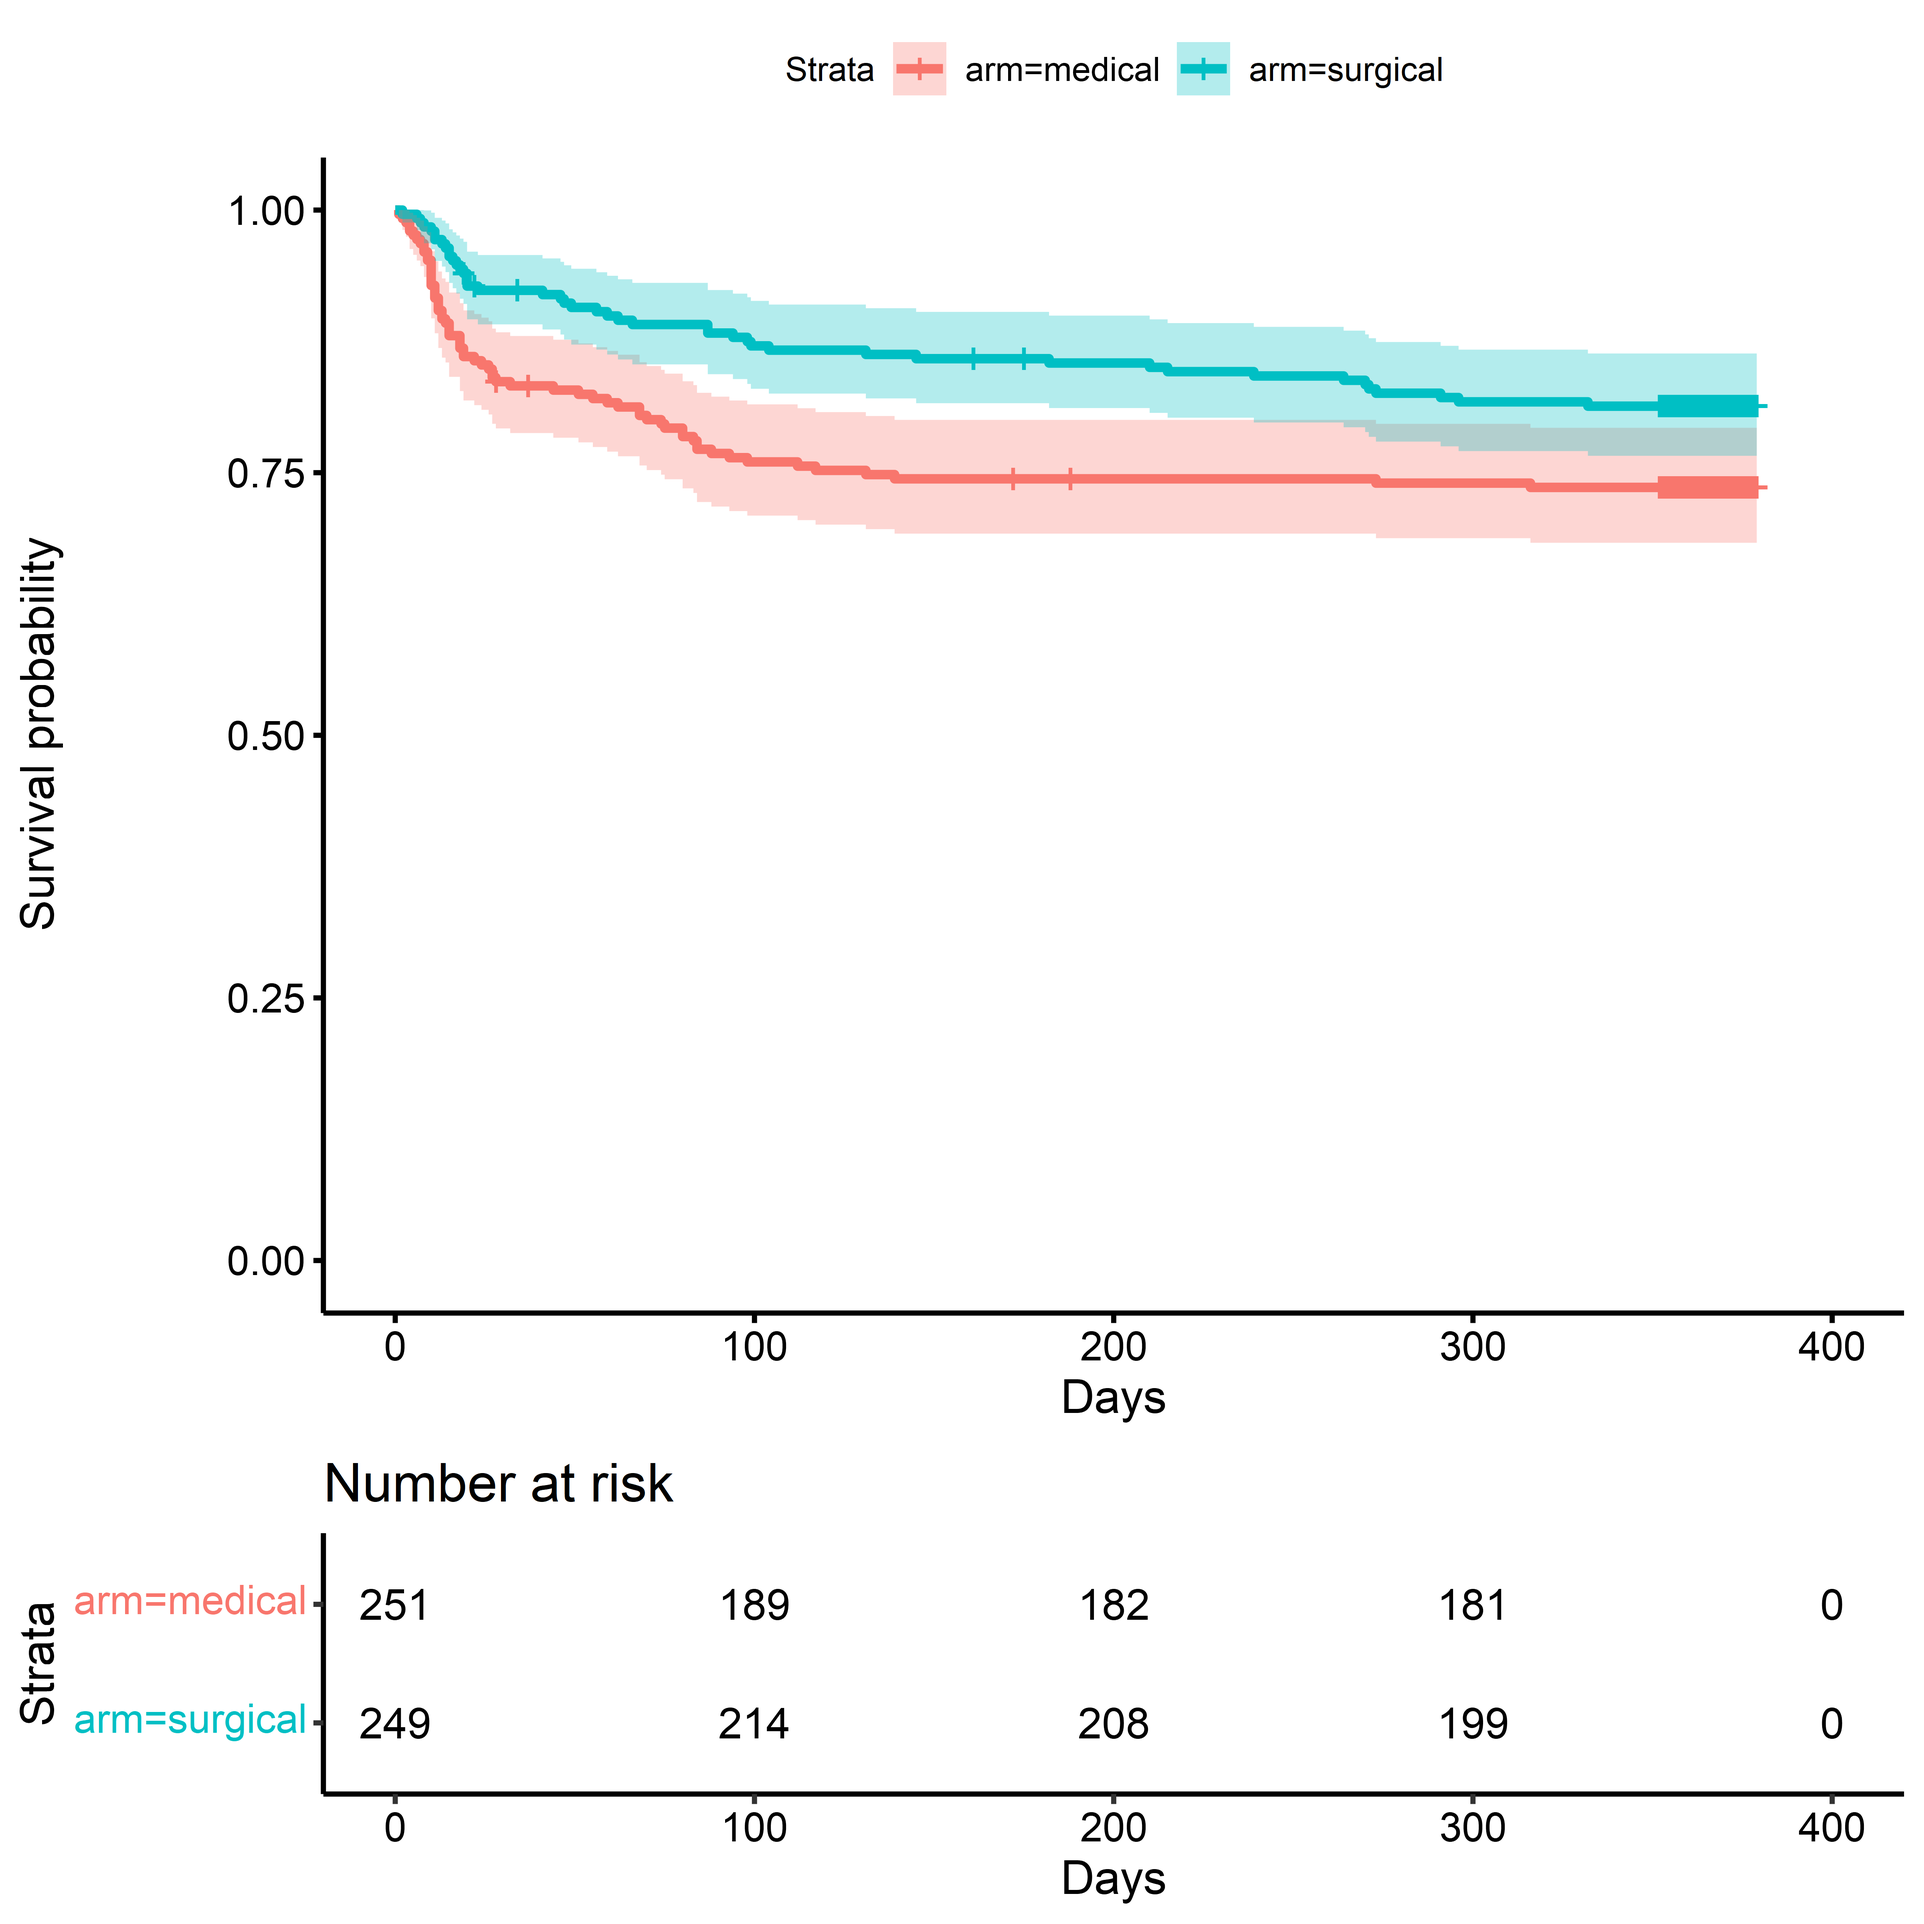
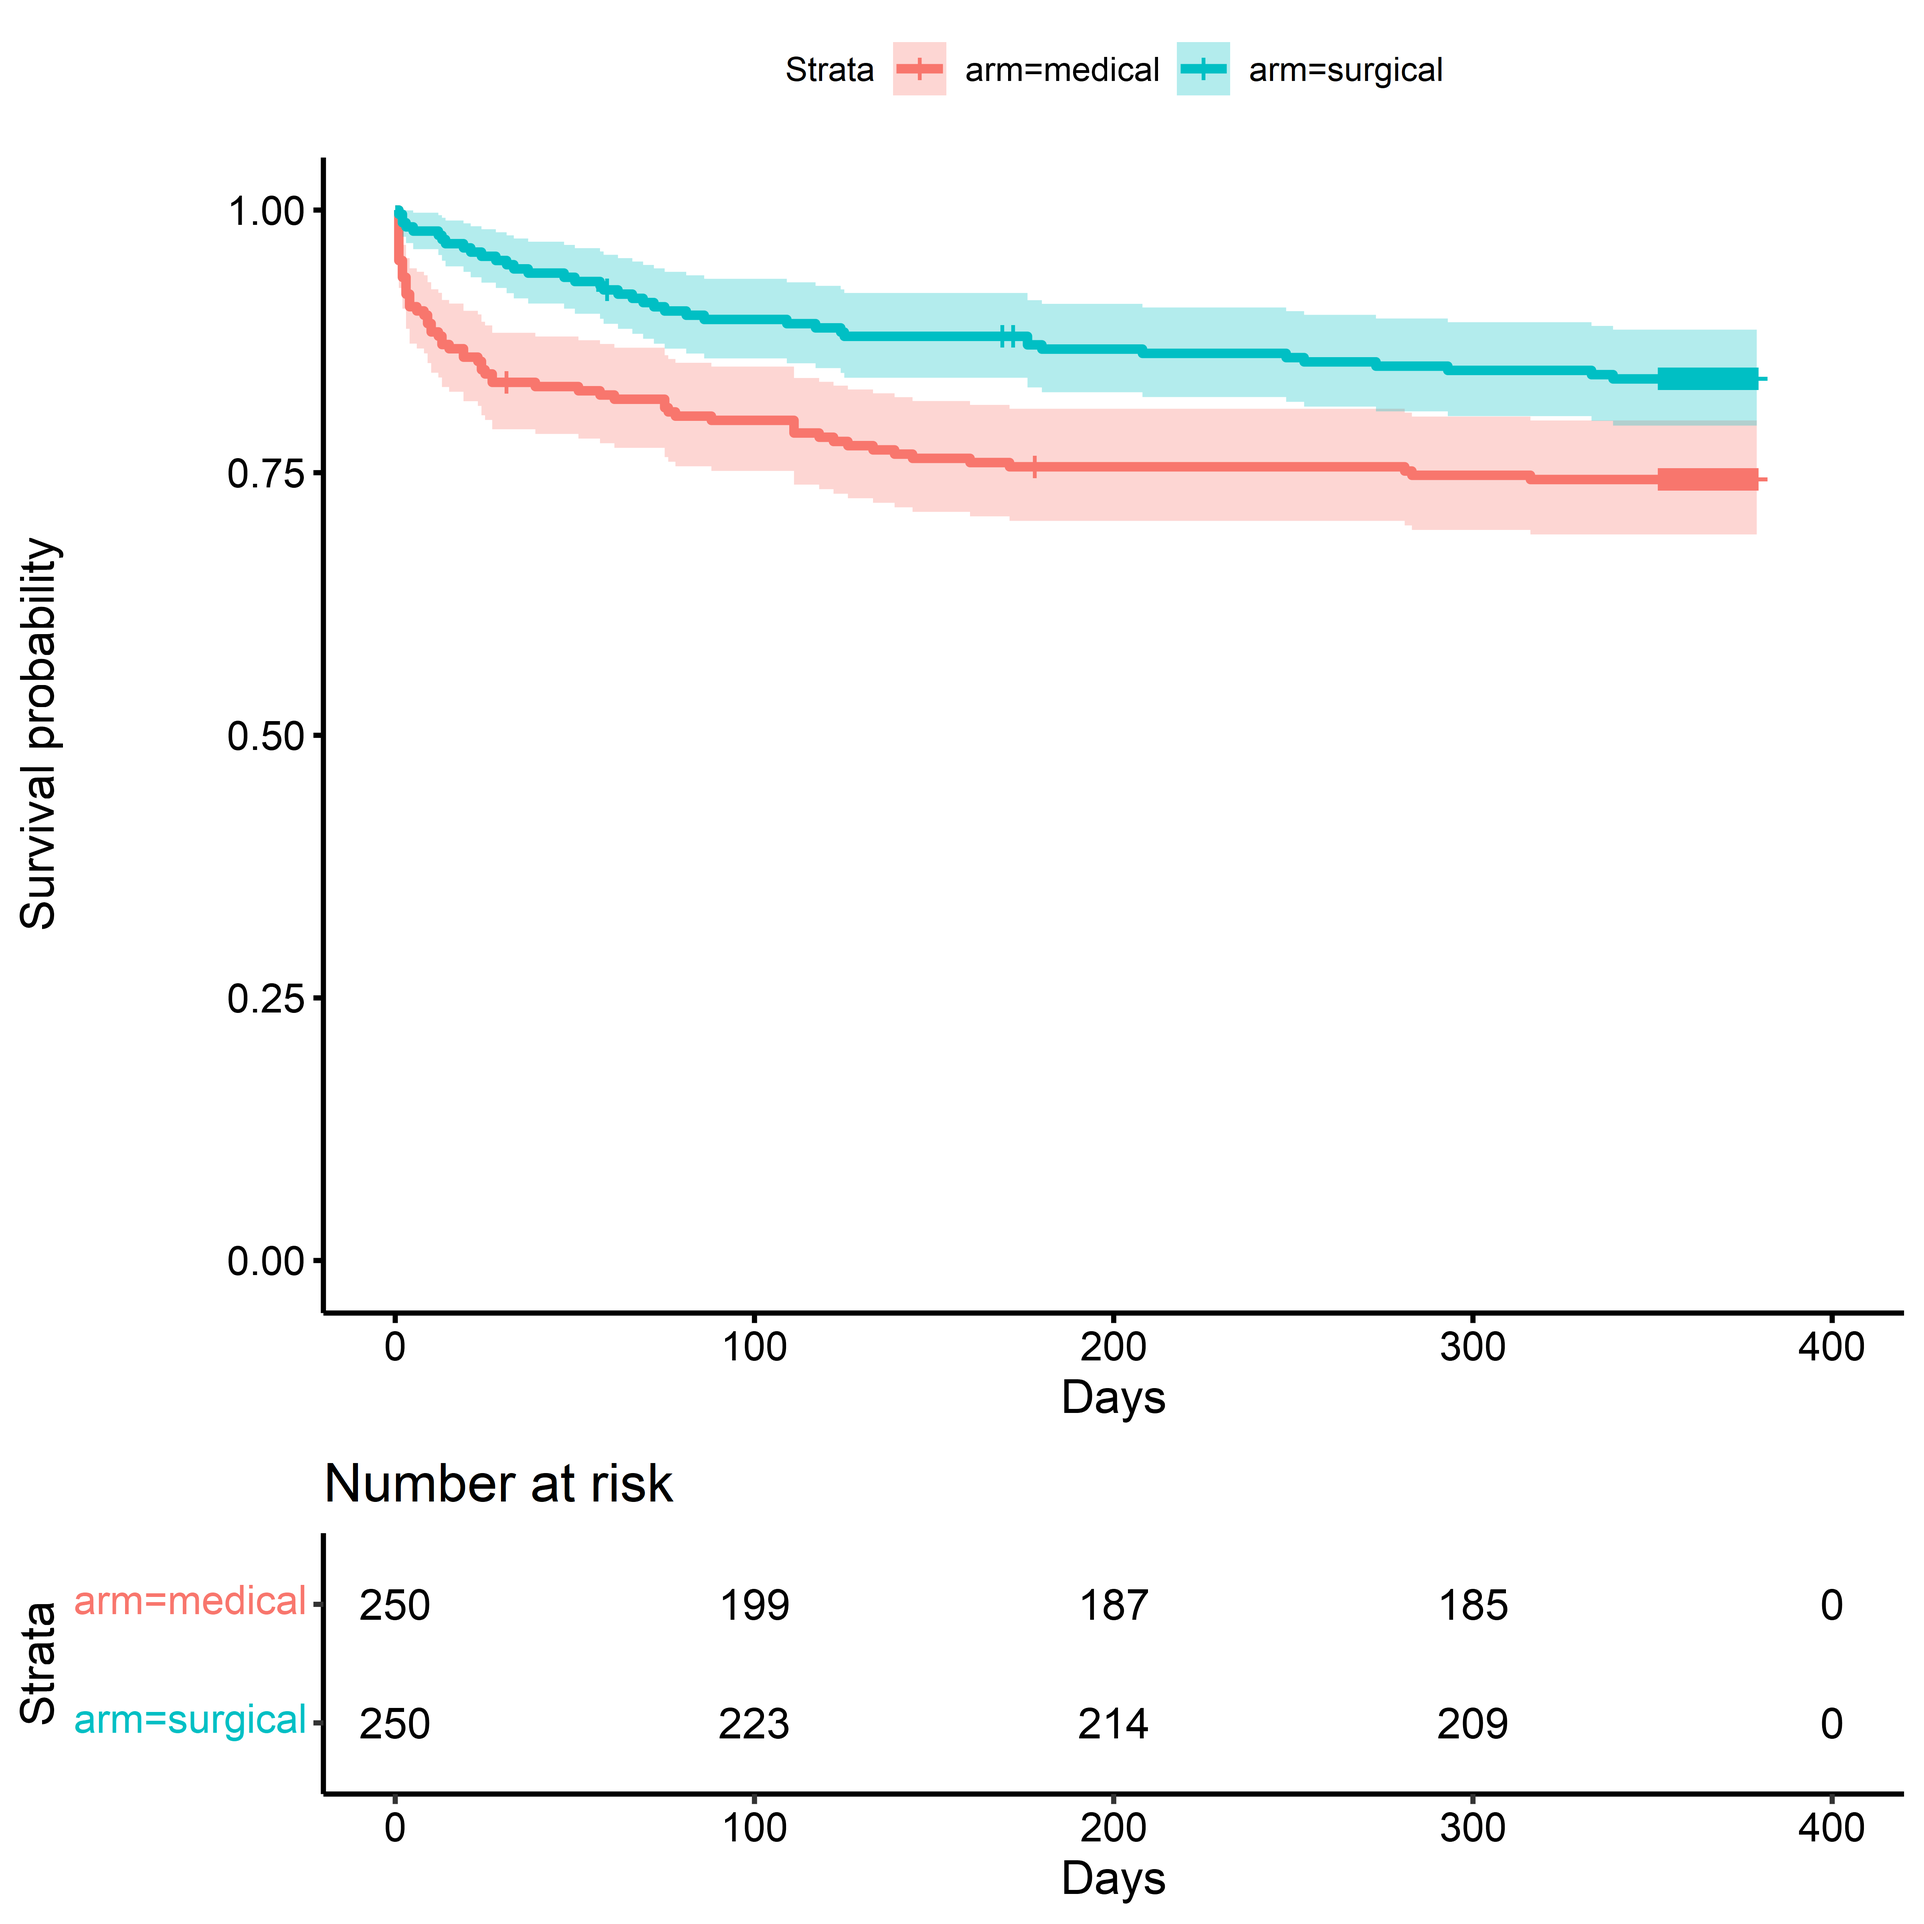
Update

diff --git a/time_to_event_mistie_simulated.md b/time_to_event_mistie_simulated.md
@@ -1,4 +1,4 @@
-Covariate Adjustment in Randomized Trials
+MISTIE III: Time-to-Event Outcome
 ================
 Josh Betz (<jbetz@jhu.edu>), Kelly Van Lancker (<kvanlan3@jhu.edu>), and
 Michael Rosenblum (<mrosen@jhu.edu>)
@@ -449,10 +449,10 @@ survival::survdiff(
     ##     arm, data = sim_miii)
     ## 
     ##                N Observed Expected (O-E)^2/E (O-E)^2/V
-    ## arm=medical  251       66     53.9      2.70      5.23
-    ## arm=surgical 249       46     58.1      2.51      5.23
+    ## arm=medical  250       64     49.6      4.19      8.06
+    ## arm=surgical 250       40     54.4      3.82      8.06
     ## 
-    ##  Chisq= 5.2  on 1 degrees of freedom, p= 0.02
+    ##  Chisq= 8.1  on 1 degrees of freedom, p= 0.005
 
 ### Cox Proportional Hazards Model
 
@@ -478,20 +478,20 @@ summary(unadjusted_cox)
     ## survival::coxph(formula = Surv(time = days_on_study, event = died_on_study) ~ 
     ##     arm, data = sim_miii, ties = "efron", robust = TRUE)
     ## 
-    ##   n= 500, number of events= 112 
+    ##   n= 500, number of events= 104 
     ## 
-    ##                coef exp(coef) se(coef) robust se      z Pr(>|z|)  
-    ## armsurgical -0.4363    0.6464   0.1921    0.1906 -2.289   0.0221 *
+    ##                coef exp(coef) se(coef) robust se      z Pr(>|z|)   
+    ## armsurgical -0.5670    0.5672   0.2016    0.1995 -2.841  0.00449 **
     ## ---
     ## Signif. codes:  0 '***' 0.001 '**' 0.01 '*' 0.05 '.' 0.1 ' ' 1
     ## 
     ##             exp(coef) exp(-coef) lower .95 upper .95
-    ## armsurgical    0.6464      1.547    0.4449    0.9393
+    ## armsurgical    0.5672      1.763    0.3836    0.8387
     ## 
-    ## Concordance= 0.559  (se = 0.023 )
-    ## Likelihood ratio test= 5.25  on 1 df,   p=0.02
-    ## Wald test            = 5.24  on 1 df,   p=0.02
-    ## Score (logrank) test = 5.24  on 1 df,   p=0.02,   Robust = 5.21  p=0.02
+    ## Concordance= 0.575  (se = 0.024 )
+    ## Likelihood ratio test= 8.16  on 1 df,   p=0.004
+    ## Wald test            = 8.07  on 1 df,   p=0.004
+    ## Score (logrank) test = 8.12  on 1 df,   p=0.004,   Robust = 8.03  p=0.005
     ## 
     ##   (Note: the likelihood ratio and score tests assume independence of
     ##      observations within a cluster, the Wald and robust score tests do not).
@@ -510,8 +510,8 @@ print(unadjusted_cox_ph_test)
 ```
 
     ##        chisq df      p
-    ## arm      7.1  1 0.0077
-    ## GLOBAL   7.1  1 0.0077
+    ## arm     9.85  1 0.0017
+    ## GLOBAL  9.85  1 0.0017
 
 ``` r
 # Plot 
@@ -542,25 +542,25 @@ with(
     ## 
     ## Restricted Mean Survival Time (RMST) by arm 
     ##                Est.    se lower .95 upper .95
-    ## RMST (arm=1) 82.970 1.332    80.359    85.581
-    ## RMST (arm=0) 75.895 1.819    72.329    79.461
+    ## RMST (arm=1) 84.510 1.160    82.237    86.783
+    ## RMST (arm=0) 75.744 1.932    71.957    79.531
     ## 
     ## 
     ## Restricted Mean Time Lost (RMTL) by arm 
     ##                Est.    se lower .95 upper .95
-    ## RMTL (arm=1)  7.030 1.332     4.419     9.641
-    ## RMTL (arm=0) 14.105 1.819    10.539    17.671
+    ## RMTL (arm=1)  5.490 1.160     3.217     7.763
+    ## RMTL (arm=0) 14.256 1.932    10.469    18.043
     ## 
     ## 
     ## Between-group contrast 
-    ##                       Est. lower .95 upper .95     p
-    ## RMST (arm=1)-(arm=0) 7.075     2.655    11.495 0.002
-    ## RMST (arm=1)/(arm=0) 1.093     1.033     1.157 0.002
-    ## RMTL (arm=1)/(arm=0) 0.498     0.318     0.781 0.002
+    ##                       Est. lower .95 upper .95 p
+    ## RMST (arm=1)-(arm=0) 8.766     4.350    13.182 0
+    ## RMST (arm=1)/(arm=0) 1.116     1.054     1.181 0
+    ## RMTL (arm=1)/(arm=0) 0.385     0.235     0.630 0
 
 The average survival time in the first 90 days was 83 days in the
 surgical arm and 76 days in the medical arm: the difference in average
-survival time (RMST) between arms in the first 90 months was 7.1 months.
+survival time (RMST) between arms in the first 90 months was 7.1 days.
 The ratio of RMST between treatment and control was 1.09 (9% increase in
 RMST).
 
@@ -610,10 +610,6 @@ adjrct::survprob(
 
     ## Warning: step size truncated due to increasing deviance
 
-    ## Warning: step size truncated due to increasing deviance
-
-    ## Warning: step size truncated due to increasing deviance
-
 The unadjusted survival probability in the first 90 days was 0.88 in the
 in the surgical arm and 0.77 in the medical arm. The difference in the
 probability of surviving the first 90 days between surgical and medical
@@ -651,28 +647,28 @@ summary(ps_model)
     ## 
     ## Parametric coefficients:
     ##                                Estimate Std. Error z value Pr(>|z|)  
-    ## (Intercept)                    -0.17775    0.24161  -0.736   0.4619  
-    ## male1. Male                    -0.06097    0.20454  -0.298   0.7656  
-    ## hx_cvd1. Yes                    0.42166    0.30489   1.383   0.1667  
-    ## hx_hyperlipidemia1. Yes        -0.12545    0.21337  -0.588   0.5566  
-    ## on_anticoagulants1. Yes         0.13985    0.38987   0.359   0.7198  
-    ## on_antiplatelets1. Yes         -0.45477    0.24349  -1.868   0.0618 .
-    ## ich_locationLobar               0.05184    0.21183   0.245   0.8067  
-    ## gcs_category2. Moderate (9-12)  0.46377    0.23402   1.982   0.0475 *
-    ## gcs_category3. Mild (13-15)     0.58348    0.26000   2.244   0.0248 *
+    ## (Intercept)                    -0.17041    0.23550  -0.724   0.4693  
+    ## male1. Male                     0.07898    0.20003   0.395   0.6930  
+    ## hx_cvd1. Yes                    0.17986    0.28062   0.641   0.5216  
+    ## hx_hyperlipidemia1. Yes        -0.37854    0.21745  -1.741   0.0817 .
+    ## on_anticoagulants1. Yes        -0.27188    0.41718  -0.652   0.5146  
+    ## on_antiplatelets1. Yes          0.44788    0.23563   1.901   0.0573 .
+    ## ich_locationLobar              -0.08078    0.20635  -0.391   0.6955  
+    ## gcs_category2. Moderate (9-12)  0.06881    0.23064   0.298   0.7654  
+    ## gcs_category3. Mild (13-15)     0.36935    0.25002   1.477   0.1396  
     ## ---
     ## Signif. codes:  0 '***' 0.001 '**' 0.01 '*' 0.05 '.' 0.1 ' ' 1
     ## 
     ## Approximate significance of smooth terms:
     ##                   edf Ref.df Chi.sq p-value  
-    ## s(age)          8.399  8.815 14.546  0.0703 .
-    ## s(ich_s_volume) 1.000  1.001  1.795  0.1806  
-    ## s(ivh_s_volume) 1.001  1.002  0.875  0.3504  
+    ## s(age)          5.381  6.561 12.174  0.0757 .
+    ## s(ich_s_volume) 1.000  1.001  0.001  0.9798  
+    ## s(ivh_s_volume) 1.000  1.000  0.519  0.4715  
     ## ---
     ## Signif. codes:  0 '***' 0.001 '**' 0.01 '*' 0.05 '.' 0.1 ' ' 1
     ## 
-    ## R-sq.(adj) =  0.0422   Deviance explained = 6.25%
-    ## UBRE = 0.37722  Scale est. = 1         n = 500
+    ## R-sq.(adj) =  0.0228   Deviance explained = 4.03%
+    ## UBRE = 0.39596  Scale est. = 1         n = 500
 
 ### Adjusted Cox Proportional Hazards Model
 
@@ -705,19 +701,19 @@ cox.zph(
 )
 ```
 
-    ##                          chisq    df     p
-    ## arm                   5.99e+00  0.99 0.014
-    ## pspline(age)          1.26e-02  4.07 1.000
-    ## male                  4.79e+00  0.99 0.028
-    ## hx_cvd                9.00e-01  0.99 0.341
-    ## hx_hyperlipidemia     2.00e+00  0.99 0.155
-    ## on_anticoagulants     2.34e+00  0.99 0.124
-    ## on_antiplatelets      6.23e-01  0.99 0.427
-    ## ich_location          9.23e-04  0.99 0.975
-    ## pspline(ich_s_volume) 8.55e+00  4.06 0.076
-    ## pspline(ivh_s_volume) 1.47e+00  4.00 0.831
-    ## gcs_category          3.84e+00  1.98 0.145
-    ## GLOBAL                2.54e+01 21.06 0.233
+    ##                          chisq    df      p
+    ## arm                   10.06992  0.99 0.0015
+    ## pspline(age)           0.20280  4.02 0.9953
+    ## male                   0.87577  0.99 0.3462
+    ## hx_cvd                 0.00932  0.98 0.9197
+    ## hx_hyperlipidemia      0.02266  0.99 0.8783
+    ## on_anticoagulants      0.07419  0.99 0.7813
+    ## on_antiplatelets       0.16014  0.99 0.6842
+    ## ich_location           6.89229  1.00 0.0086
+    ## pspline(ich_s_volume)  3.40417  4.01 0.4944
+    ## pspline(ivh_s_volume)  0.07829  4.02 0.9993
+    ## gcs_category           2.79527  1.99 0.2447
+    ## GLOBAL                26.87130 20.96 0.1735
 
 Here we can see departures from the proportional hazards assumption:
 
@@ -769,29 +765,29 @@ rmst_metadata_adj
 
     ## Treatment Arm
 
-    ## Estimate: 81.51
+    ## Estimate: 84.28
 
-    ## Std. error: 1.51
+    ## Std. error: 1.19
 
-    ## 95% CI: (78.55, 84.47)
+    ## 95% CI: (81.95, 86.61)
 
     ## Control Arm
 
-    ## Estimate: 77.27
+    ## Estimate: 76.65
 
-    ## Std. error: 1.66
+    ## Std. error: 1.77
 
-    ## 95% CI: (74.01, 80.53)
+    ## 95% CI: (73.17, 80.13)
 
     ## Treatment Effect: E(min[T, 90] | A = 1) - E(min[T, 90] | A = 0)
 
     ## Additive effect
 
-    ## Estimate: 4.24
+    ## Estimate: 7.63
 
-    ## Std. error: 2.17
+    ## Std. error: 2.11
 
-    ## 95% CI: (-0.01, 8.48)
+    ## 95% CI: (3.49, 11.77)
 
 ``` r
 rmst_metadata_adj_table <-
@@ -833,9 +829,9 @@ kable(
 
 | Arm                 | Estimate |   SE |   LCL |   UCL |
 |:--------------------|---------:|-----:|------:|------:|
-| Treatment           |    81.51 | 1.51 | 78.55 | 84.47 |
-| Control             |    77.27 | 1.66 | 74.01 | 80.53 |
-| Treatment - Control |     4.24 | 2.17 | -0.01 |  8.48 |
+| Treatment           |    84.28 | 1.19 | 81.95 | 86.61 |
+| Control             |    76.65 | 1.77 | 73.17 | 80.13 |
+| Treatment - Control |     7.63 | 2.11 |  3.49 | 11.77 |
 
 TMLE covariate-adjusted estimates of Restricted Mean Survival Time.
 
@@ -853,7 +849,17 @@ survival_metadata_adj <-
     metadata = surv_metadata_adj,
     horizon = 90
   )
+```
 
+    ## Warning: step size truncated due to increasing deviance
+
+    ## Warning: step size truncated due to increasing deviance
+
+    ## Warning: step size truncated due to increasing deviance
+
+    ## Warning: step size truncated due to increasing deviance
+
+``` r
 survival_metadata_adj
 ```
 
@@ -863,29 +869,29 @@ survival_metadata_adj
 
     ## Treatment Arm
 
-    ## Estimate: 0.86
+    ## Estimate: 0.89
 
     ## Std. error: 0.02
 
-    ## 95% CI: (0.82, 0.91)
+    ## 95% CI: (0.85, 0.93)
 
     ## Control Arm
 
-    ## Estimate: 0.79
+    ## Estimate: 0.81
 
     ## Std. error: 0.02
 
-    ## 95% CI: (0.74, 0.84)
+    ## 95% CI: (0.77, 0.86)
 
     ## Treatment Effect: Pr(T > 90 | A = 1) - Pr(T > 90 | A = 0)
 
     ## Additive effect
 
-    ## Estimate: 0.07
+    ## Estimate: 0.08
 
     ## Std. error: 0.03
 
-    ## 95% CI: (0.01, 0.14)
+    ## 95% CI: (0.02, 0.14)
 
 ``` r
 survival_metadata_adj_table <-
@@ -927,9 +933,9 @@ kable(
 
 | Arm                 | Estimate |   SE |  LCL |  UCL |
 |:--------------------|---------:|-----:|-----:|-----:|
-| Treatment           |     0.86 | 0.02 | 0.82 | 0.91 |
-| Control             |     0.79 | 0.02 | 0.74 | 0.84 |
-| Treatment - Control |     0.07 | 0.03 | 0.01 | 0.14 |
+| Treatment           |     0.89 | 0.02 | 0.85 | 0.93 |
+| Control             |     0.81 | 0.02 | 0.77 | 0.86 |
+| Treatment - Control |     0.08 | 0.03 | 0.02 | 0.14 |
 
 TMLE covariate-adjusted estimates of survival probability.
 
